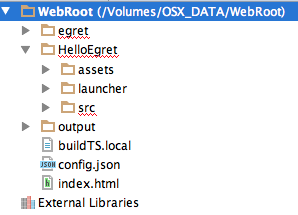
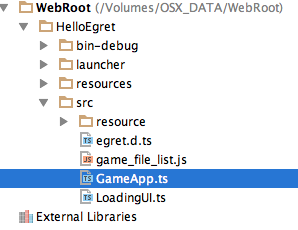
02

Changed region(s): [[0.0, 0.0, 1.0, 0.893], [0.0604, 0.893, 0.4832, 0.9767], [0.0604, 0.5581, 0.0906, 0.614]]

diff --git a/egret/02-bitmap.md b/egret/02-bitmap.md
@@ -10,11 +10,22 @@ Egret框架入门第一步 - 纹理和位图
 
 ![github](https://raw.githubusercontent.com/NeoGuo/html5-documents/master/egret/images/workspace.png "WorkSpace")
 
-展开HelloEgret项目的src目录，您可以看见3个文件：game_file_list.js,GameApp.ts,GameUI.ts，3个文件的作用依次是：
+项目遵循一个特定的结构，结构简单说明如下：
 
-* game_file_list.js - 包含您为项目编写的TypeScript文件编译所得的js文件，对项目的类文件进行增删改时，记得更新这个文件。
-* GameApp.ts - 作为游戏的入口类，实现游戏逻辑
-* GameUI.ts - 实现Loading效果
+```
+workspace    // 您的工作目录
+  |-- your_project  // 您的项目
+        |-- src // 源码放在这里
+             |--egret.d.ts // egret库的描述文件
+             |--game_file_list.js // 包含您为项目编写的TypeScript文件编译所得的js文件，对项目的类文件进行增删改时，记得更新这个文件。
+             |--GameApp.ts // 作为游戏的入口类，实现游戏逻辑
+             |--LoadingUI.ts // 实现Loading效果
+        |-- resources // 这里放资源，比如图片声音之类的
+        |-- launcher // 入口
+              |-- index.html 启动文件
+        |-- bin-debug // 编译后的代码目录
+
+```
 
 然后我们创建一个TypeScript类文件，命名为Demo2.ts，然后把下面的代码粘贴进去：
 
@@ -29,11 +40,11 @@ class Demo2 {
 var app = new Demo2();
 ```
 
-然后打开game_file_list.js，将"GameApp.js"修改为"Demo2.js"，这样就可以将我们自己的类作为入口类。
+然后打开game_file_list.js，将"GameApp.js"修改为"Demo2.js"，并注释掉GameApp.ts中的最后一行：```var app = new GameApp();```;这样就可以将我们自己的类作为入口类。
 
 使用命令行编译项目：
 ```
-$ egret b HelloEgret
+egret build HelloEgret
 ```
 
 浏览器观察最终结果，当然页面上什么都没有，只是咣当弹出一个"hello!"而已，这就证明我们的修改起作用了。
